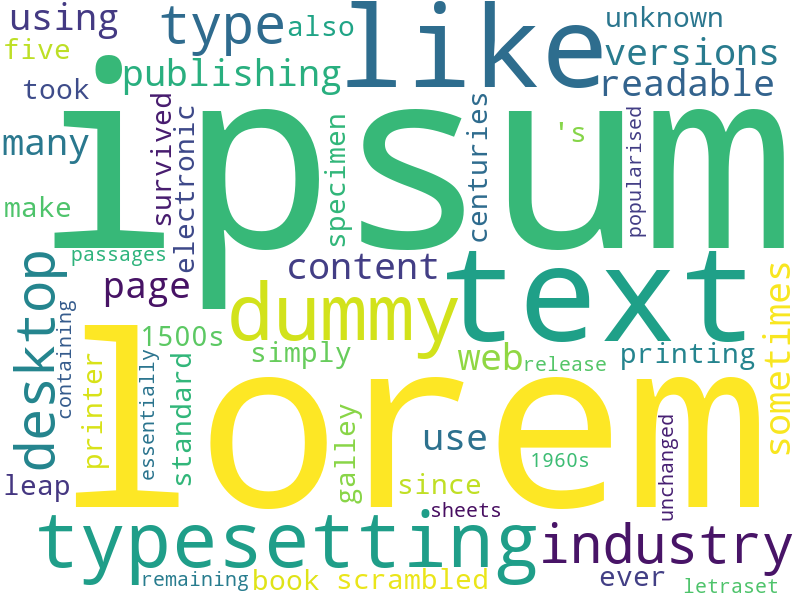
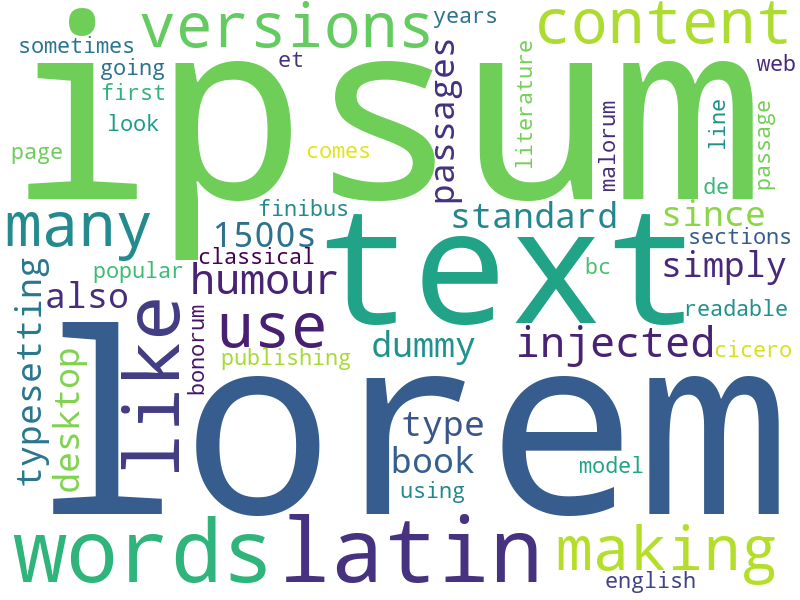
fix removing of punctuation

diff --git a/wordcloud_app/controllers/freq_dist_calc.py b/wordcloud_app/controllers/freq_dist_calc.py
@@ -6,6 +6,7 @@ import sys
 import codecs
 import nltk
 from .cloud import generate_cloud_from_frequencies
+import re
 
 def calculateAndGenerateCloud(input_text,max_words,language,custom_stopwords_text):
 
@@ -24,9 +25,12 @@ def calculateAndGenerateCloud(input_text,max_words,language,custom_stopwords_tex
     # Merge the language stopwords with the custom stopwords
     all_stopwords = default_language_stopwords | custom_stopwords
 
+    # first, remove all punctuation using regex
+    input_text = re.sub(r'[^\w\s]','',input_text)
+
     words = nltk.word_tokenize(input_text)
 
-    # Remove single character words, which are mostly punctuation
+    # second check for punctuation, remove single character words, which are mostly punctuation
     words = [word for word in words if len(word) > 1]
 
     # Remove numbers
